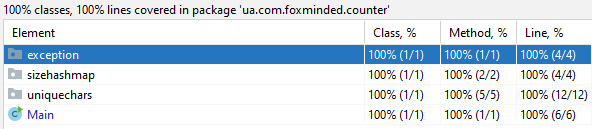
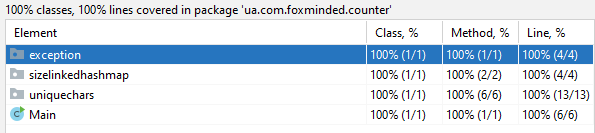
Fix name package sizelinkedhashmap, class MaxSizeLinkedHashMap.

diff --git a/src/test/java/ua/com/foxminded/counter/uniquechars/MaxSizeLinkedHashMapTest.java b/src/test/java/ua/com/foxminded/counter/uniquechars/MaxSizeLinkedHashMapTest.java
@@ -1,15 +1,15 @@
 package ua.com.foxminded.counter.uniquechars;
 
 import org.junit.jupiter.api.Test;
-import ua.com.foxminded.counter.sizehashmap.MaxSizeHashMap;
+import ua.com.foxminded.counter.sizelinkedhashmap.MaxSizeLinkedHashMap;
 
 import java.util.LinkedHashMap;
 
 import static org.junit.jupiter.api.Assertions.assertEquals;
 
-class MaxSizeHashMapTest {
+class MaxSizeLinkedHashMapTest {
 
-    private static MaxSizeHashMap<String, String> cache;
+    private static MaxSizeLinkedHashMap<String, String> cache;
     private static LinkedHashMap<String, String> expected;
 
     @Test
@@ -17,7 +17,7 @@ class MaxSizeHashMapTest {
 
         expected = new LinkedHashMap<> ();
         expected.put ("1", "Hello World!");
-        cache = new MaxSizeHashMap<String, String> (1);
+        cache = new MaxSizeLinkedHashMap<String, String> (1);
         cache.put ("1", "Hello World!");
         assertEquals (expected.get ("1"), cache.get ("1"));
     }
@@ -26,7 +26,7 @@ class MaxSizeHashMapTest {
     void whenSetSizeOne_expectedNull() {
 
         String isNull = null;
-        cache = new MaxSizeHashMap<String, String> (1);
+        cache = new MaxSizeLinkedHashMap<String, String> (1);
         cache.put ("1", "Hello World!");
         cache.put ("2", "Hello World");
         assertEquals (isNull, cache.get ("1"));

diff --git a/src/main/java/ua/com/foxminded/counter/uniquechars/Counter.java b/src/main/java/ua/com/foxminded/counter/uniquechars/Counter.java
@@ -1,7 +1,7 @@
 package ua.com.foxminded.counter.uniquechars;
 
 import ua.com.foxminded.counter.exception.Validator;
-import ua.com.foxminded.counter.sizehashmap.MaxSizeHashMap;
+import ua.com.foxminded.counter.sizelinkedhashmap.MaxSizeLinkedHashMap;
 
 import java.util.LinkedHashMap;
 import java.util.Map;
@@ -17,7 +17,7 @@ import java.util.stream.Collectors;
 
 public class Counter {
 
-    static MaxSizeHashMap<String, String> cache = new MaxSizeHashMap<String, String> (1);//set size LinkedHashMap
+    static MaxSizeLinkedHashMap<String, String> cache = new MaxSizeLinkedHashMap<String, String> (1);//set size LinkedHashMap
 
     /**
      * @param sentences string

diff --git a/src/main/java/ua/com/foxminded/counter/sizelinkedhashmap/MaxSizeLinkedHashMap.java b/src/main/java/ua/com/foxminded/counter/sizelinkedhashmap/MaxSizeLinkedHashMap.java
@@ -1,4 +1,4 @@
-package ua.com.foxminded.counter.sizehashmap;
+package ua.com.foxminded.counter.sizelinkedhashmap;
 
 import java.util.LinkedHashMap;
 import java.util.Map;
@@ -11,13 +11,13 @@ import java.util.Map;
  * @version 1.0001
  */
 
-public class MaxSizeHashMap<K, V> extends LinkedHashMap<K, V> {
+public class MaxSizeLinkedHashMap<K, V> extends LinkedHashMap<K, V> {
     private final int maxSize;
 
     /**
      * @param maxSize number size LinkedHashMap
      */
-    public MaxSizeHashMap(int maxSize) {
+    public MaxSizeLinkedHashMap(int maxSize) {
         this.maxSize = maxSize;
     }
 
